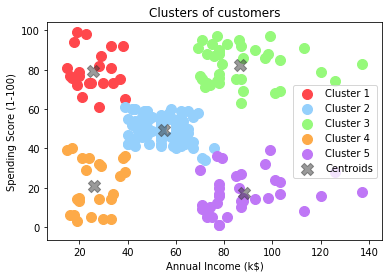
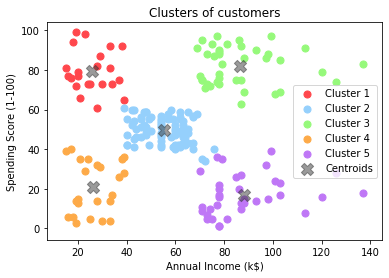
Update : Udemy : kmeans graph

diff --git a/Udemy/Machine Leartning A-Z/Clustering KMeans/my_kmeans.py b/Udemy/Machine Leartning A-Z/Clustering KMeans/my_kmeans.py
@@ -33,11 +33,16 @@ plt.show()
 kmeans = KMeans(n_clusters = 5, init = 'k-means++', random_state = 42)
 y_kmeans = kmeans.fit_predict(X)
 
-plt.scatter(X[y_kmeans == 0, 0], X[y_kmeans == 0, 1], s = 100, c = '#ff474c', label = 'Cluster 1')
-plt.scatter(X[y_kmeans == 1, 0], X[y_kmeans == 1, 1], s = 100, c = '#95d0fc', label = 'Cluster 2')
-plt.scatter(X[y_kmeans == 2, 0], X[y_kmeans == 2, 1], s = 100, c = '#96f97b', label = 'Cluster 3')
-plt.scatter(X[y_kmeans == 3, 0], X[y_kmeans == 3, 1], s = 100, c = '#fdaa48', label = 'Cluster 4')
-plt.scatter(X[y_kmeans == 4, 0], X[y_kmeans == 4, 1], s = 100, c = '#bf77f6', label = 'Cluster 5')
+print (type (y_kmeans))
+print (X[:10,:])
+print (y_kmeans[0:10])
+
+
+plt.scatter(X[y_kmeans == 0, 0], X[y_kmeans == 0, 1], s = 50, c = '#ff474c', label = 'Cluster 1')
+plt.scatter(X[y_kmeans == 1, 0], X[y_kmeans == 1, 1], s = 50, c = '#95d0fc', label = 'Cluster 2')
+plt.scatter(X[y_kmeans == 2, 0], X[y_kmeans == 2, 1], s = 50, c = '#96f97b', label = 'Cluster 3')
+plt.scatter(X[y_kmeans == 3, 0], X[y_kmeans == 3, 1], s = 50, c = '#fdaa48', label = 'Cluster 4')
+plt.scatter(X[y_kmeans == 4, 0], X[y_kmeans == 4, 1], s = 50, c = '#bf77f6', label = 'Cluster 5')
 plt.scatter(kmeans.cluster_centers_[:, 0], kmeans.cluster_centers_[:, 1], marker='X', s = 150, alpha=0.50, c = '#363737', label = 'Centroids')
 plt.title('Clusters of customers')
 plt.xlabel('Annual Income (k$)')
